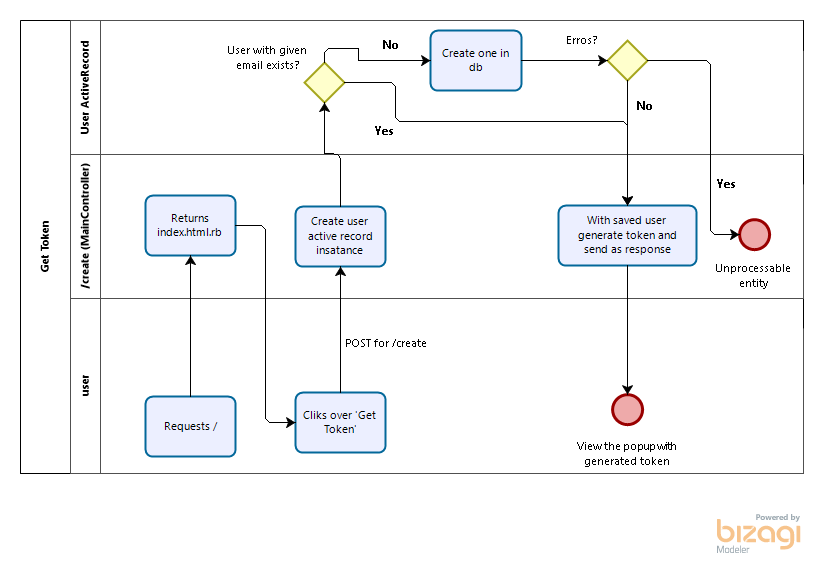
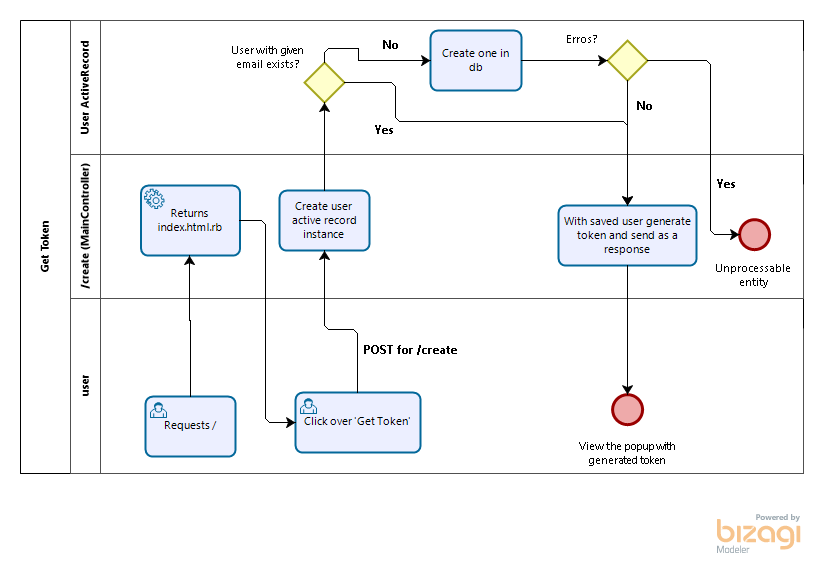
Added quote_search bizagi artifact

diff --git a/app/modules/crawler.rb b/app/modules/crawler.rb
@@ -1,14 +1,13 @@
 # frozen_string_literal: true
 
-##
+#
 # Simple module crawler to get all quotes from given target `quotes.toscrape`, after that
 # the same class will parse the entire html received for tag request and transforms the
 # html string to a list/array of Quotes.
 #
 class Crawler
-  ##
+
   # Get the list of quotes for given tag
-  #
   def self.get_quotes(tag)
     html = get_page(tag)
 
@@ -17,16 +16,12 @@ class Crawler
 
   private_class_method
 
-  ##
   # Send request to get full HTML page from quotes to given tag
-  #
   def self.get_page(tag)
     Excon.get("http://quotes.toscrape.com/tag/#{tag}/").body
   end
 
-  ##
   # Extract a list of quotes from html string
-  #
   def self.parse_quotes(html)
     quotes = []
 

diff --git a/README.md b/README.md
@@ -2,7 +2,7 @@
   [![Ruby](https://img.shields.io/badge/ruby-2.5.3p105-yellowgreen.svg)](https://rubyinstaller.org/downloads/)  
 
 # Status
-  [![Build Status](https://travis-ci.org/ronniery/crawler.rails.svg?branch=master)](https://travis-ci.org/ronniery/crawler.rails) <br>
+  [![Build Status](https://travis-ci.org/ronniery/crawler.rails.svg?branch=master)](https://travis-ci.org/ronniery/crawler.rails) 
   [![Maintainability](https://api.codeclimate.com/v1/badges/b52e77b44859c59e640c/maintainability)](https://codeclimate.com/github/ronniery/crawler.rails/maintainability)
   
 # Preciso iniciar o banco de dados?
@@ -37,7 +37,7 @@
   A aplicação possui as seguintes rotas:
   
   | Prefixo | Método | URI  | Controlador/Ação | Descrição | Seguro
-  | :---: | --- | --- | --- | --- | --- |
+  | :---: | :---: | --- | :---: | --- | :---: |
   | `root` | **GET** | [/](https://arcane-waters-62201.herokuapp.com/) | main#index | Rota base do app | ✗ |
   | `create` | **POST** | [/create](https://arcane-waters-62201.herokuapp.com/create) | main#create | Rota para criação de tokens de acesso | ✗ |
   | `quotes` | **GET** | [/quotes](https://arcane-waters-62201.herokuapp.com/quotes) | quotes#show | Rota base do controllador *quotes* | ✓ |
@@ -45,6 +45,10 @@
   | - | **GET** | /quotes/:tag/:mode | quotes#viewer | Exibe o JSON em um editor amigável da tag informada | ✓ |
   
   # Autenticação
+  
+  Representação em BPM do fluxo necessário para se obter um token:
+  
+  ![token_creation.png](https://github.com/ronniery/crawler.rails/blob/master/artifacts/token_creation.png)
   
   Algumas rotas vão exigir que você informe um token de acesso através do parâmetro `?t={USER_TOKEN}` ou através do header `Authorization`, 
   vejamos um exemplo:
@@ -65,3 +69,8 @@
 
   obs: A arquitetura da aplicação foi feita desta forma, unicamente para fins avaliativos, considerando que não existem rotas que não sejam `GET`
   onde o header com a autorização faria mais sentido.
+  
+  # Busca por termos
+  
+  
+  
